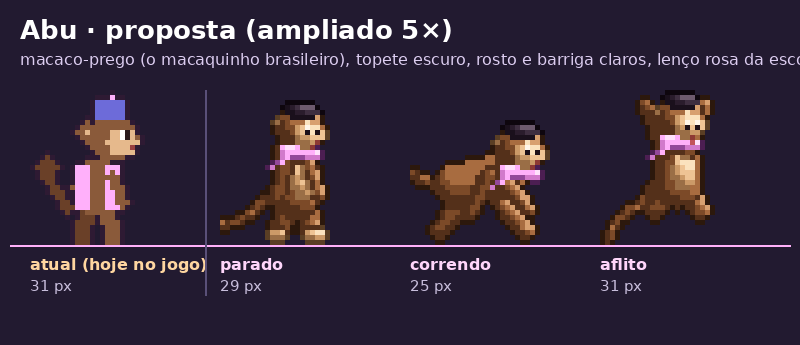
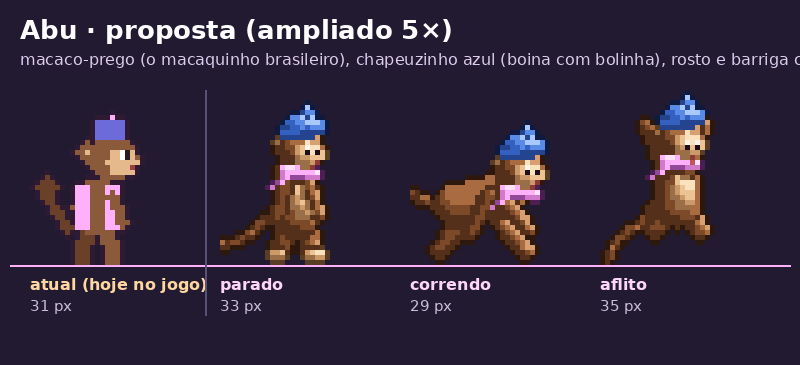
Prévia do elenco: chapeuzinho azul no Abu
Boina redonda azul com bolinha, inclinada (não o fez do filme), nas 3 poses.

Claude-Session: https://claude.ai/code/session_01PQYRHCjcJDFveiPkYtVM8o

diff --git a/ferramentas/arte/elenco_proposta.py b/ferramentas/arte/elenco_proposta.py
@@ -794,6 +794,7 @@ class Abu:
         self.CLARO = P('claro', R['pelo_claro'], (0.78, 0.42, 0.12))
         self.TOPETE = P('topete', R['preto_cab'], (0.82, 0.52, 0.22))
         self.LENCO = P('lenco', R['rosa'], (0.86, 0.50, 0.16))
+        self.CHAPEU = P('chapeu', R['azul'], (0.80, 0.46, 0.14))
 
     def desenhar(self, pose_):
         b = Boneco(self.L, self.A)
@@ -833,6 +834,10 @@ class Abu:
         b.elipse((cx, cy), 4.6, 4.4, P)                                                     # cabeça
         b.elipse((cx + 1.6, cy + 1.2), 3.0, 2.8, C, separar=False)                         # rosto claro
         b.elipse((cx + 0.2, cy - 3.6), 3.6, 1.6, self.TOPETE, separar=False)               # topete do macaco-prego
+        # chapeuzinho azul (boina redonda inclinada com bolinha; pedido do Pedro, 01/11/2026)
+        b.elipse((cx + 0.6, cy - 4.6), 4.2, 2.6, self.CHAPEU, separar=False)
+        b.capsula((cx - 3.4, cy - 3.2), (cx + 4.4, cy - 4.0), 0.8, 0.8, self.CHAPEU, 1, separar=False)
+        b.elipse((cx + 1.4, cy - 7.4), 1.2, 1.2, self.CHAPEU, separar=False)
         b.capsula((cx - 3, cy + 4.5), (cx + 3, cy + 5.2), 1.3, 1.3, self.LENCO, separar=False)   # lenço
         b.poligono([(cx - 3, cy + 4), (cx - 6, cy + 8), (cx - 2, cy + 6)], self.LENCO, separar=False)
         olho = 'e'
@@ -923,8 +928,8 @@ def poses():
         ], 'pele lilás, turbante magenta com joia verde, cavanhaque, brinco de argola, colete rosa aberto, faixa '
            'e braceletes dourados, cauda de fumaça amarela'),
         'abu': ('Abu', [('parado', ab.img('parado')), ('correndo', ab.img('correndo')), ('aflito', ab.img('aflito'))],
-                'macaco-prego (o macaquinho brasileiro), topete escuro, rosto e barriga claros, lenço rosa da escola '
-                '(sem colete e chapéu do filme)'),
+                'macaco-prego (o macaquinho brasileiro), chapeuzinho azul (boina com bolinha), rosto e barriga claros, '
+                'lenço rosa da escola'),
     }
 
 

diff --git a/ferramentas/arte/previas/personagens/PROPOSTA.md b/ferramentas/arte/previas/personagens/PROPOSTA.md
@@ -68,7 +68,8 @@ Alturas atingidas: Tia Paula 57, Tia Claudia 57, Jasmine 54, Sultão 70, Jafar 6
 
 Mudanças de design em relação ao jogo de hoje (todas provisórias até as fotos):
 - Tia Paula: coque castanho e vestido roxo → loira, rabo de cavalo, camiseta preta do espetáculo, jeans e tênis.
-- Abu: colete e chapéu (lembravam o Abu do filme) → **macaco-prego** com lenço rosa da escola.
+- Abu: colete e chapéu (lembravam o Abu do filme) → **macaco-prego** com lenço rosa da escola e
+  **chapeuzinho azul** (boina redonda com bolinha, não o fez do filme; pedido do Pedro).
 - Gênio: cabelo em coque (lembrava o do filme) → turbante magenta com joia; ganhou tamanho de "gigante".
 - Jasmine: calça bufante → saia longa de dança com cinto de moedas (bailarina da escola).
 - Jafar e Sultão: mesmo design, agora no tamanho e no acabamento certos.
